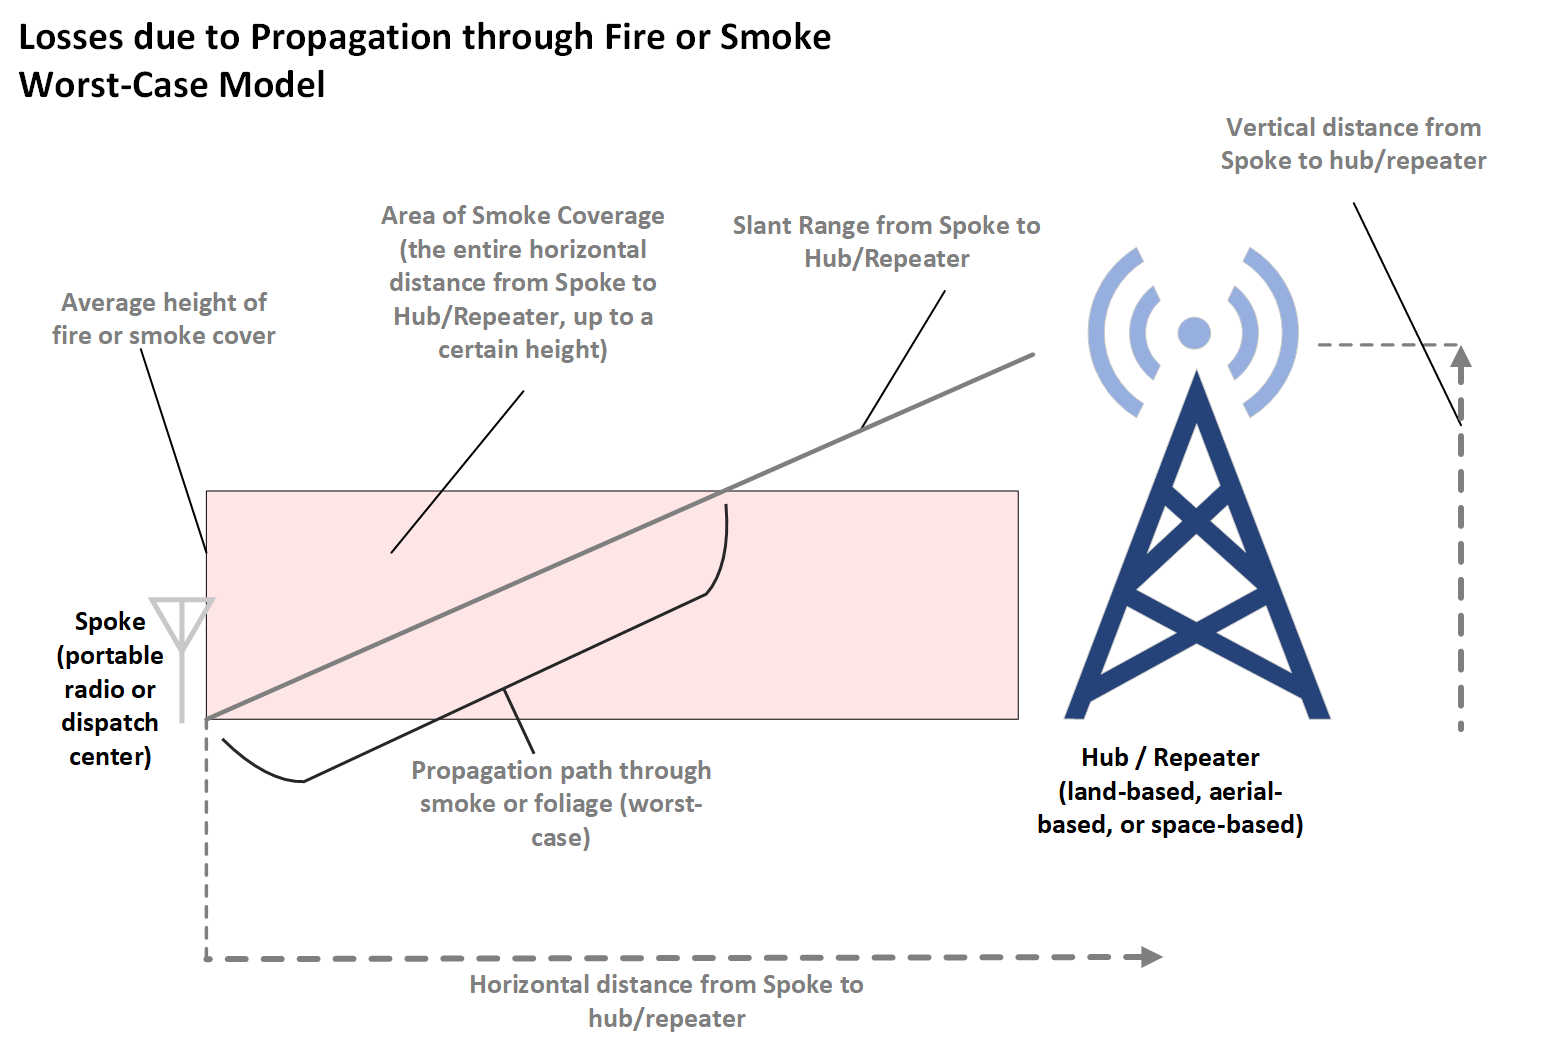
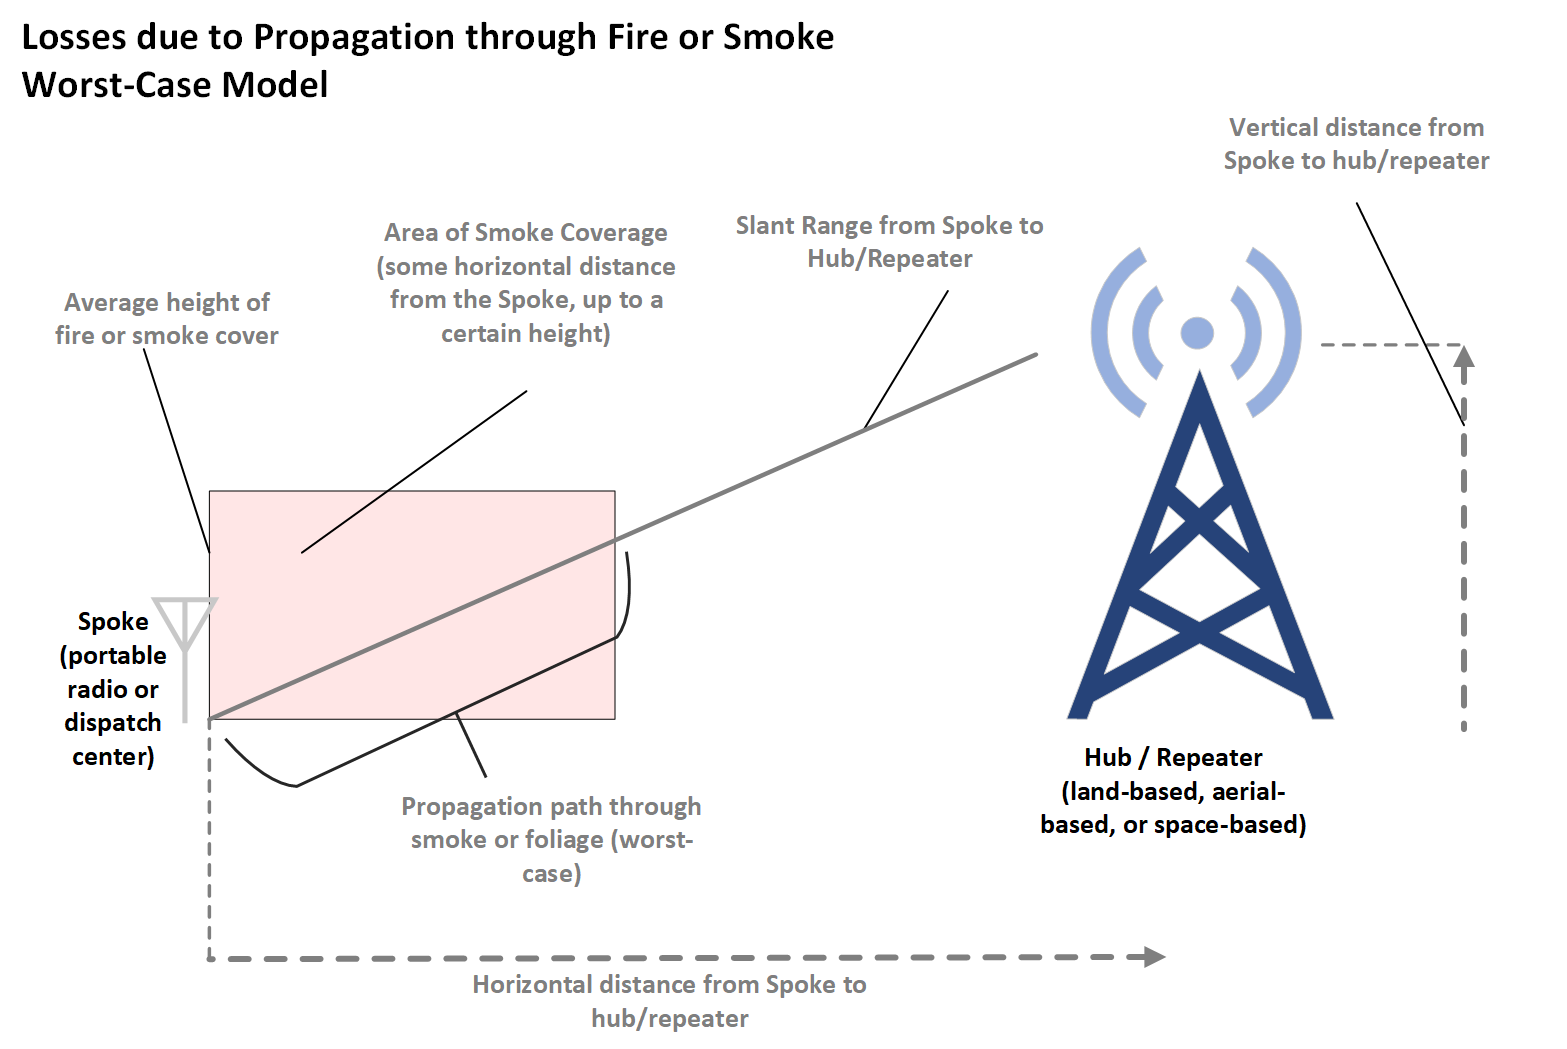
Adding updated propagation path models

diff --git a/main.m b/main.m
@@ -1144,39 +1144,39 @@ propertiesOfInterest = [0    %PortableRadioPurchaseCost
 
 for i = 1:1:35
    
-    % Plot Best Case Frontend Link Margins
-    if propertiesOfInterest(i)
-        figure
-        hold on
-        gscatter(totalCost(:,4),bestCaseFrontendLinkMargins(:,1),architectures(:,i));
-        xlim([0 3*10^7])
-        ylim([0 70])
-        xlabel(['Total Cost of Ownership over ' int2str(periodOfTimeForCostModel) ' years (USD)'])
-        ylabel('Link Margin, dB')
-
-        thisGrouping = architecturesTable.Properties.VariableNames{i};
-
-        title({'Best Case Frontend Link Margin vs TCO';...
-                    ['ordered by ' thisGrouping]})
-        hold off
-    end
-   
-    % Plot Best Case Backhaul Link Margins
-    if propertiesOfInterest(i)
-        figure
-        hold on
-        gscatter(totalCost(:,4),bestCaseBackhaulLinkMargins(:,1),architectures(:,i));
-        xlim([0 3*10^7])
-        ylim([0 70])
-        xlabel(['Total Cost of Ownership over ' int2str(periodOfTimeForCostModel) ' years (USD)'])
-        ylabel('Link Margin, dB')
-
-        thisGrouping = architecturesTable.Properties.VariableNames{i};
-
-        title({'Best Case Backhaul Link Margin vs TCO';...
-                    ['ordered by ' thisGrouping]})
-        hold off
-    end
+%     % Plot Best Case Frontend Link Margins
+%     if propertiesOfInterest(i)
+%         figure
+%         hold on
+%         gscatter(totalCost(:,4),bestCaseFrontendLinkMargins(:,1),architectures(:,i));
+%         xlim([0 3*10^7])
+%         ylim([0 70])
+%         xlabel(['Total Cost of Ownership over ' int2str(periodOfTimeForCostModel) ' years (USD)'])
+%         ylabel('Link Margin, dB')
+% 
+%         thisGrouping = architecturesTable.Properties.VariableNames{i};
+% 
+%         title({'Best Case Frontend Link Margin vs TCO';...
+%                     ['ordered by ' thisGrouping]})
+%         hold off
+%     end
+%    
+%     % Plot Best Case Backhaul Link Margins
+%     if propertiesOfInterest(i)
+%         figure
+%         hold on
+%         gscatter(totalCost(:,4),bestCaseBackhaulLinkMargins(:,1),architectures(:,i));
+%         xlim([0 3*10^7])
+%         ylim([0 70])
+%         xlabel(['Total Cost of Ownership over ' int2str(periodOfTimeForCostModel) ' years (USD)'])
+%         ylabel('Link Margin, dB')
+% 
+%         thisGrouping = architecturesTable.Properties.VariableNames{i};
+% 
+%         title({'Best Case Backhaul Link Margin vs TCO';...
+%                     ['ordered by ' thisGrouping]})
+%         hold off
+%     end
     
     % Plot Worst Case Frontend Link Margins
     if propertiesOfInterest(i)

diff --git a/calculatePropagationPath.m b/calculatePropagationPath.m
@@ -1,4 +1,4 @@
-function s2 = calculatePropagationPath(s1,v1,v2)
+function s2 = calculatePropagationPath(s1,v1,v2,h1,h2)
 %calculatePropagationPath - Calculate the propagation path through
 %smoke/fire or through foliage.
 %
@@ -13,6 +13,9 @@ function s2 = calculatePropagationPath(s1,v1,v2)
 %       v1: the height from the spoke to the hub/repeater, in meters
 %       v2: the maximum height of the cover due to foliage, smoke, or fire,
 %               in meters
+%       h1: horizontal distance from spoke to hub/repeater
+%       h2: the maximum horizontal distance of foliage or smoke/fire cover 
+%           between the spoke to the repeater
 
 % Find the sine of the triangle
 sinTheta = v1/s1;
